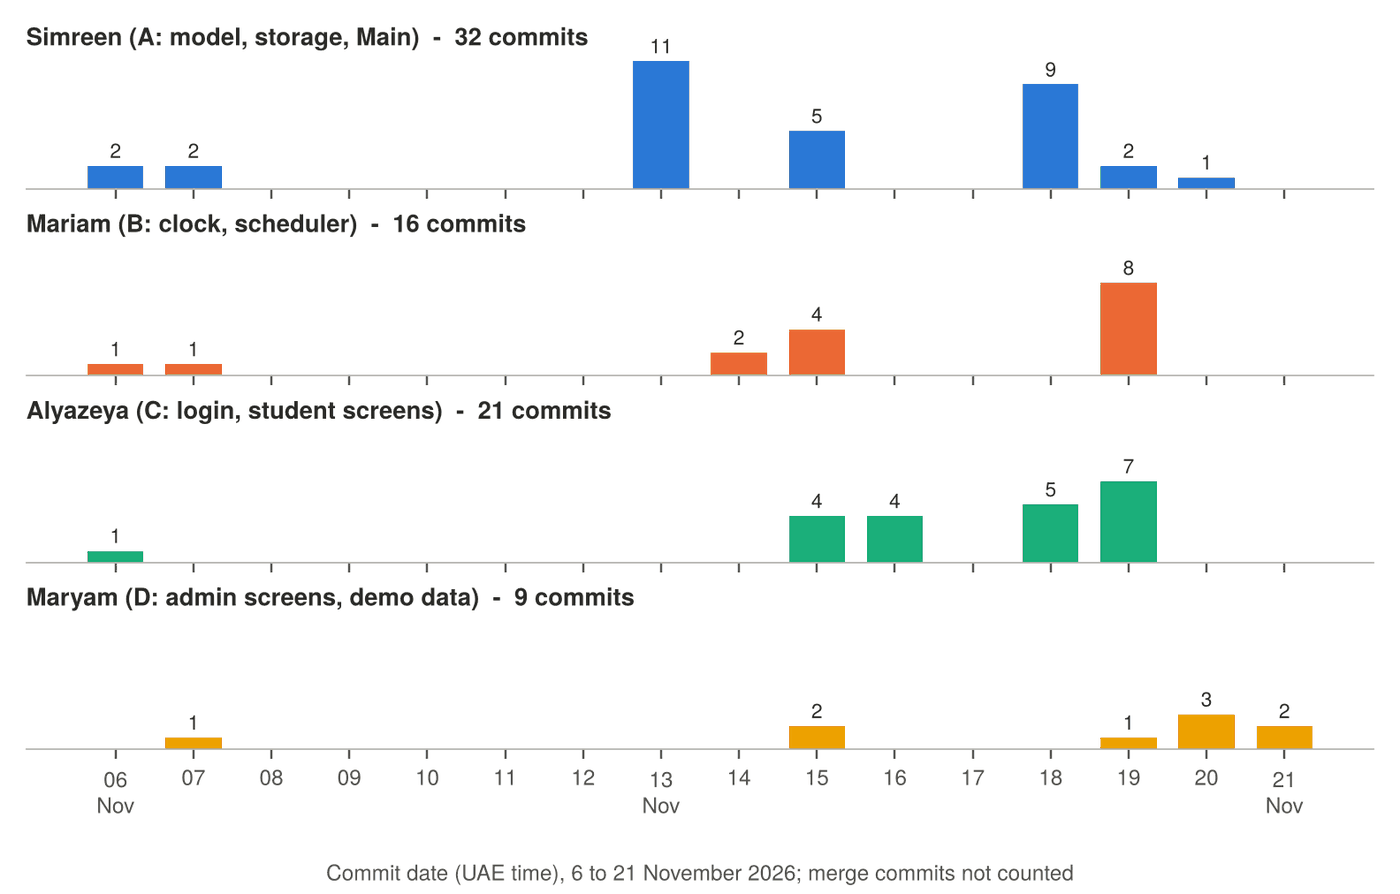
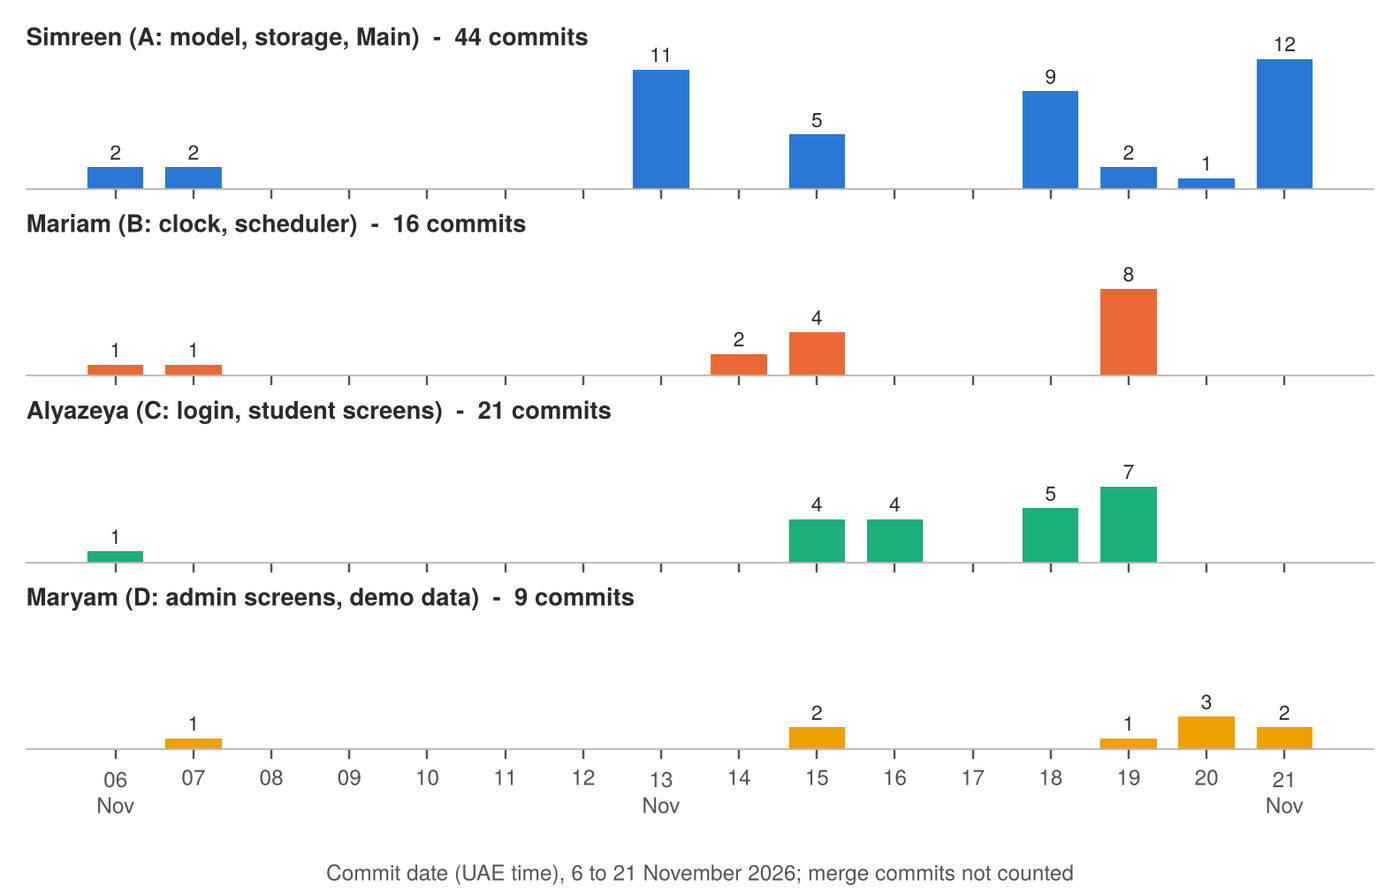
readme - how it works step by step with screenshots, class diagrams shown with what each one covers

diff --git a/README.md b/README.md
@@ -2,7 +2,7 @@
 
 COSC 230 Object-Oriented Programming lab project, Fall 2026, Khalifa University.
 
-A Java Swing desktop app that manages four shared NVIDIA H100 GPUs for students. Students register, the administrator approves them and gives them GPU minutes, and students submit jobs that are scheduled on the GPUs. The GPUs and the clock are simulated.
+A Java Swing desktop app that shares four NVIDIA H100 GPUs between students. Students ask for an account, the administrator approves them and gives them GPU minutes, and students submit jobs that run on the GPUs one after another. Nothing really runs on a GPU: the GPUs and the clock are simulated, and time only moves when the administrator presses **+1 minute**.
 
 | Member | Student ID | GitHub | Part |
 |---|---|---|---|
@@ -11,31 +11,19 @@ A Java Swing desktop app that manages four shared NVIDIA H100 GPUs for students.
 | Alyazeya Alhammadi | 100060361 | [alhammadi-007](https://github.com/alhammadi-007) | C: login, registration, student screens |
 | Maryam Alhefeiti | 100060410 | [mksalhefeiti](https://github.com/mksalhefeiti) | D: admin screens, demo data |
 
-![Administrator dashboard at 10:20 in the guide's example](docs/screenshots/admin-dashboard.png)
-
-## Contents
-
-- [The task](#the-task)
-- [What the app does](#what-the-app-does)
-- [How to run it](#how-to-run-it)
-- [Design](#design)
-- [Testing and results](#testing-and-results)
-- [Version control](#version-control)
-- [Limitations](#limitations)
-- [Repository layout](#repository-layout)
+**Contents:** [The task](#the-task) · [How it works, step by step](#how-it-works-step-by-step) · [Class diagrams](#class-diagrams) · [How to run it](#how-to-run-it) · [Testing and results](#testing-and-results) · [Version control](#version-control) · [Limitations](#limitations) · [Repository layout](#repository-layout)
 
 ## The task
 
-The project asks for a Java OOP app with a JFrame interface that:
+Build a Java OOP app with a JFrame interface where:
 
-- lets students register with university ID, name, email, phone and a password
-- lets the fixed administrator (`admin` / `gpu2026`) approve or reject them; approval gives 100 GPU minutes by default
-- lets approved students submit jobs within their allowance, choosing one of four sizes
-- runs the jobs first come, first served on four GPUs, lowest free GPU ID first
-- moves time only when the administrator presses **+1 minute**
-- shows queue positions, predicted start and finish times, waits and utilization
-- saves everything to files and restores it on restart
-- uses encapsulation, inheritance, interfaces, polymorphism and collections, and keeps the GUI separate from the logic
+- students register with their university ID, name, email, phone and a password
+- one fixed administrator (`admin` / `gpu2026`) approves or rejects them; approval gives 100 GPU minutes by default
+- approved students submit jobs within their minutes, choosing one of four sizes
+- jobs run first come, first served on four GPUs, on the lowest free GPU ID
+- time moves only with **+1 minute**, and the app shows queue positions, predicted times, waits and utilization
+- everything is saved to files and comes back after a restart
+- the code uses encapsulation, inheritance, interfaces, polymorphism and collections, and keeps the GUI separate from the logic
 
 | Size | Workload units | Duration |
 |---|---|---|
@@ -44,105 +32,81 @@ The project asks for a Java OOP app with a JFrame interface that:
 | Large | 30 | 30 min |
 | Very large | 60 | 60 min |
 
-The allowance rule is **available = allocated − used − reserved**. A job's full duration is reserved when it is accepted. When it completes, or is cancelled while running, the reservation is released and only the minutes it actually ran are charged. A job cancelled while queued costs nothing.
+## How it works, step by step
 
-## What the app does
+The screenshots follow the example in the project guide: the clock was set to 16/11/2026 10:00, five students got 100 minutes each, and ten jobs (J101 to J110) were submitted between 10:00 and 10:19. The screenshots are at 10:20.
 
-**Students**
-- request an account, then log in with their university ID
-- see allocated, used, reserved and available minutes
-- submit a job (title, application, description, size) after confirming the duration
-- see their own jobs with status, GPU, start and finish times (predicted ones marked `≈`), queue position and wait
-- search and filter their jobs, and cancel a queued or running job with a reason
+### 1. Start the app
 
-**Administrator**
-- sets the clock once with date and time spinners, then moves it with **+1 minute**
-- approves requests with an initial number of minutes, or rejects them
-- sees a dashboard: job counts, busy GPUs, utilization, each GPU's job and finish time, waiting jobs, completed jobs and every balance
-- searches students by ID, grants extra minutes with a reason, cancels any queued or running job with a reason
-- lists every job with a search box and a status filter
+`Main` loads the saved files from `data/` with `DataStore`, creates one `AppData`, `SimulationClock`, `AccountService` and `Scheduler`, and opens the login window. Every window gets these same objects, so all screens show the same data. Students sign in with their university ID; the administrator signs in as `admin`.
 
-<details>
-<summary><b>Screenshots</b> (taken on the 10:20 data from the test scenario)</summary>
+<img src="docs/screenshots/login.png" width="420" alt="Login window">
 
-| | |
+### 2. A student asks for an account
+
+The registration form has only the five fields from the task. `AccountService.register()` checks them (nothing empty, a valid email and phone, the ID not already used) and saves an `AccessRequest` with status *Pending*. Until it is approved, signing in shows "Your registration request is still pending approval."
+
+<img src="docs/screenshots/register-validation.png" width="420" alt="Registration with an invalid email">
+
+### 3. The administrator sets the clock (first time only)
+
+On the first admin login there is no saved clock, so the clock setup opens with a date picker and a time picker. After that the clock only moves with **+1 minute** and never follows the computer's clock. Until it is set, jobs can't be submitted and +1 minute is disabled.
+
+<img src="docs/screenshots/clock-setup.png" width="700" alt="Clock setup dialog">
+
+### 4. The administrator approves the request
+
+The Requests tab lists the requests. **Approve** creates a `Student` with a `TimeAllowance` of 100 minutes (the administrator can change the number first). **Reject** only changes the status. A request can't be processed twice.
+
+<img src="docs/screenshots/admin-requests.png" alt="Requests tab">
+
+### 5. The student signs in and sees their minutes
+
+Every student has a `TimeAllowance` with three numbers. **available = allocated − used − reserved**. *Reserved* is time held for jobs that are queued or running; *used* is time that jobs actually ran. Here Sara has 100 allocated, 15 used, 20 reserved, so 65 available.
+
+<img src="docs/screenshots/student-home.png" width="420" alt="Student home window">
+
+### 6. The student submits a job
+
+The student types a title, application and description and picks a size. The duration comes from the size, and the student confirms it. `Scheduler.submit()` first reserves the minutes; if the job needs more than the available time it is refused and nothing is saved (an exact match is accepted).
+
+| Confirming a Large job | Not enough time: 60 asked, 55 available |
 |---|---|
-| ![Login](docs/screenshots/login.png) | ![Registration with a bad email](docs/screenshots/register-validation.png) |
-| Login | Registration with an invalid email |
-| ![Student home](docs/screenshots/student-home.png) | ![Submitting a job](docs/screenshots/submit-confirm.png) |
-| Student home: 100 / 15 / 20 / 65 | Confirming a Large job |
-| ![Allowance limit](docs/screenshots/allowance-limit.png) | ![Broken data file](docs/screenshots/file-error.png) |
-| 60 minutes asked, 55 available: refused | Broken `jobs.csv`: file and line named |
+| ![Submit confirmation](docs/screenshots/submit-confirm.png) | ![Job refused](docs/screenshots/allowance-limit.png) |
+
+### 7. The scheduler puts the job on a GPU or in the queue
+
+If a GPU is free the job starts at once on the lowest-numbered free GPU. If all four are busy it waits in one first-come, first-served queue. For waiting jobs the scheduler predicts when they start: it copies each GPU's "free at" time and hands out the queued jobs in order to the earliest copy (a tie goes to the lower GPU). Only the copies change, never the real GPUs. My Jobs shows each job's status and GPU; predicted times are marked `≈`.
 
 ![My Jobs](docs/screenshots/my-jobs.png)
-*Sara's jobs at 10:20: J109 is second in the queue and waits 10 minutes.*
+*Sara's jobs at 10:20: J109 is second in the queue and should start at 10:30, a 10-minute wait.*
 
-![Clock setup](docs/screenshots/clock-setup.png)
-*First admin login on empty data: the clock must be set first.*
+### 8. The administrator presses +1 minute
 
-![Requests](docs/screenshots/admin-requests.png)
-![Students](docs/screenshots/admin-students.png)
-![Granting time](docs/screenshots/grant-time.png)
-![All jobs](docs/screenshots/admin-all-jobs.png)
+`Scheduler.advanceMinute()` moves the clock one minute, completes every job that has run its full duration, settles it (the reservation is released and the minutes it ran are charged), frees its GPU and starts the next waiting jobs. Then the data is saved. The dashboard shows the job counts, each GPU, the waiting and completed jobs, every student's minutes and the utilization: minutes run by all jobs ÷ (4 × minutes since the clock was set), N/A at time zero.
 
-</details>
+![Administrator dashboard](docs/screenshots/admin-dashboard.png)
+*At 10:20 all four GPUs are busy, J108 and J109 wait 10 minutes each and utilization is 96.3%, the same as the guide.*
 
-## How to run it
+### 9. Cancelling a job
 
-You need Java 17 or newer. There are no external libraries.
+A student can cancel their own queued or running job; the administrator can cancel any. Both must give a reason, and the job keeps who cancelled it, when and why. A queued job costs nothing; a running job is charged only the minutes it ran and its GPU goes to the next job. On the Students tab the administrator finds a student by ID and sees their minutes and all their jobs.
 
-**Open the project**
-- Eclipse: File → Import → General → Existing Projects into Workspace → choose this folder.
-- VS Code: install the Extension Pack for Java, then File → Open Folder.
+![Students tab](docs/screenshots/admin-students.png)
 
-**Run**
+### 10. Granting extra time
 
-| File | What it does |
-|---|---|
-| `src/ui/Main.java` | Starts the app with the data in `data/`. On the first run log in as `admin` / `gpu2026` and set the clock. |
-| `src/ui/DemoMain.java` | Starts the app with the demo data in `demo-data/`. |
-| `src/ui/DemoDataGenerator.java` | Rebuilds `demo-data/`. Close the app first, it overwrites the demo files. |
-| `test/tests/ModelStorageTest.java` | Tests the model classes and storage (29 checks). |
-| `test/tests/ScenarioTest.java` | Replays the guide's 10:20 example and tests the rules (45 checks). |
+From the Students tab the administrator can give a student more minutes. A reason is required, and the grant is saved as a `TimeGrant` (student, minutes, reason, who, when). The All Jobs tab lists every job with a search box and a status filter.
 
-**Demo logins** (in `DemoMain`): `admin` / `gpu2026`, or students `100011` to `100015` with password `Demo12345`. The demo has 5 approved students, 2 pending and 1 rejected request, and 20 jobs: 6 completed, 6 cancelled, 4 running and 4 queued.
+<img src="docs/screenshots/grant-time.png" width="520" alt="Grant extra time dialog">
 
-To start again from nothing, close the app and delete the `data/` folder.
+![All Jobs tab](docs/screenshots/admin-all-jobs.png)
 
-## Design
+### 11. Closing and opening again
 
-The code is split into four packages. Only `ui` uses Swing.
+When the app closes, `DataStore` writes `students.csv`, `requests.csv`, `jobs.csv`, `grants.csv` and `clock.csv`, one object per line. On the next start everything comes back: the clock continues from the same minute, running jobs go back on their GPUs with the time they had left, and the queue and balances are the same. A missing file just means nothing was saved yet. A broken file shows which file and line is wrong and is not overwritten.
 
-| Package | Classes | Job |
-|---|---|---|
-| `model` | `User`, `Student`, `Administrator`, `AccessRequest`, `Job`, `GPU`, `TimeAllowance`, `TimeGrant`, `AppData`, `Storable`, `TimeFormat`, `TaskSize`, `JobStatus`, `RequestStatus` | The data and the rules that protect it |
-| `logic` | `AccountService`, `Scheduler`, `SimulationClock`, `ValidationException` | Accounts, scheduling, the clock |
-| `storage` | `DataStore` | Saves and loads the CSV files |
-| `ui` | `Main`, `DemoMain`, `DemoDataGenerator`, `LoginFrame`, `StudentRegistrationFrame`, `StudentFrame`, `SubmitJobFrame`, `MyJobsFrame`, `MyJobsPanel`, `AdminFrame`, `DashboardPanel`, `RequestsPanel`, `StudentsPanel`, `AllJobsPanel`, `ClockSetupPanel` | The windows |
-
-![How the packages connect](docs/uml/overview.png)
-
-`Main` creates one `AppData`, `SimulationClock`, `AccountService` and `Scheduler` and passes them to every window, so all screens work on the same data.
-
-**How the classes connect**
-- **Submit a job:** `SubmitJobFrame` → `Scheduler.submit()` reserves the minutes on the student's `TimeAllowance` (throws if there isn't enough), creates the `Job`, adds it to `AppData` and dispatches queued jobs onto free GPUs.
-- **+1 minute:** `AdminFrame` → `Scheduler.advanceMinute()` moves the `SimulationClock`, completes finished jobs, settles them (release + charge), frees their GPUs and starts waiting jobs. Then `Main.save()` writes the files.
-- **Cancel:** `MyJobsPanel` (owner) or `StudentsPanel` (admin) → `Scheduler.cancel()`. A running job is charged the minutes it ran and frees its GPU; a queued job is released for free.
-- **Start and exit:** `Main` → `DataStore.load()` restores everything and puts running jobs back on their GPUs; a shutdown hook calls `DataStore.save()`.
-
-**Predictions** copy each GPU's free-at time and give the queued jobs, in FCFS order, to the earliest copy (ties go to the lower GPU ID). The real GPUs are never changed. **Utilization** is the minutes run by all jobs ÷ (4 × minutes since the clock was set), shown as N/A at time zero.
-
-**The five OOP mechanisms**
-
-| Mechanism | Where |
-|---|---|
-| Encapsulation | `TimeAllowance` keeps allocated, used and reserved private; only `reserve()`, `release()`, `charge()` and `grant()` change them and none can go negative. `User` hides the password behind `checkPassword()`. |
-| Inheritance | `Student` and `Administrator` extend the abstract `User`. The windows extend `JFrame` / `JPanel`. |
-| Interfaces | `Student`, `AccessRequest`, `Job` and `TimeGrant` implement `Storable` (`toLine()`). |
-| Polymorphism | `AccountService.login()` loops over a list of `User` and calls `checkPassword()`; `DataStore` calls `toLine()` on any `Storable`. |
-| Collections | `HashMap` of students, `ArrayList`s of requests, jobs and grants, `GPU[4]`, `List<Job>` queue, `Map<Job, LocalDateTime>` predictions. |
-
-**Storage.** `DataStore` writes `students.csv`, `requests.csv`, `jobs.csv`, `grants.csv` and `clock.csv`, one object per line. A missing file means nothing was saved yet. A broken line stops loading with a message naming the file and line, and the file is not overwritten.
+<img src="docs/screenshots/file-error.png" width="520" alt="File error message">
 
 ```
 students.csv  100052210,gpu12345,Sara Ahmed,sara.ahmed@ku.ac.ae,0501234502,100,15,20
@@ -150,25 +114,80 @@ jobs.csv      J106,100052210,CNN training,PyTorch,Train the image classifier,MED
 clock.csv     2026,11,16,10,20,20
 ```
 
-<details>
-<summary><b>Class diagrams</b> (every attribute and method)</summary>
+## Class diagrams
 
-**Model: users, requests, allowances, grants**
-![Model 1](docs/uml/model-users.png)
+The code is in four packages. Only `ui` uses Swing; `logic` and `model` never import it. The windows read their fields and call methods in `logic`, which apply the rules.
 
-**Model: jobs, GPUs, AppData**
-![Model 2](docs/uml/model-jobs.png)
+| Package | Classes |
+|---|---|
+| `model` | `User`, `Student`, `Administrator`, `AccessRequest`, `Job`, `GPU`, `TimeAllowance`, `TimeGrant`, `AppData`, `Storable`, `TimeFormat`, `TaskSize`, `JobStatus`, `RequestStatus` |
+| `logic` | `AccountService`, `Scheduler`, `SimulationClock`, `ValidationException` |
+| `storage` | `DataStore` |
+| `ui` | `Main`, `LoginFrame`, `StudentRegistrationFrame`, `StudentFrame`, `SubmitJobFrame`, `MyJobsFrame`, `MyJobsPanel`, `AdminFrame`, `DashboardPanel`, `RequestsPanel`, `StudentsPanel`, `AllJobsPanel`, `ClockSetupPanel` |
 
-**Logic and storage**
-![Logic and storage](docs/uml/logic-storage.png)
+### How the packages connect
 
-**UI: Main, login, registration, student windows**
-![UI 1](docs/uml/ui-student.png)
+The windows call `AccountService` (register, login, approve, reject, grant) and `Scheduler` (submit, cancel, +1 minute, predictions). Both work on the one `AppData`. `DataStore` saves and loads `AppData` and the clock.
 
-**UI: administrator window and tabs**
-![UI 2](docs/uml/ui-admin.png)
+<img src="docs/uml/overview.png" width="640" alt="Package overview">
 
-</details>
+### Model: users, requests, allowances and grants
+
+`Student` and `Administrator` extend the abstract `User`. A `Student` has one `TimeAllowance`, whose numbers can only change through `reserve()`, `release()`, `charge()` and `grant()`, so they never go negative. `Student`, `AccessRequest` and `TimeGrant` implement `Storable`, so each can write itself as one line of a file.
+
+![Model classes 1](docs/uml/model-users.png)
+
+### Model: jobs, GPUs and AppData
+
+A `Job` checks its own moves: only Queued → Running or Cancelled, and Running → Completed or Cancelled. Anything else throws, so a job can't restart or be charged twice. `AppData` holds the students (a `HashMap` by ID), the requests, jobs and grants (`ArrayList`s) and the four `GPU`s.
+
+![Model classes 2](docs/uml/model-jobs.png)
+
+### Logic and storage
+
+`Scheduler` does submit, dispatch, +1 minute, cancel, predictions and utilization using the `SimulationClock`. `AccountService` handles accounts. `DataStore` writes and reads the CSV files and turns any broken line into a `ValidationException` with the file and line.
+
+![Logic and storage classes](docs/uml/logic-storage.png)
+
+### UI: start, login and student windows
+
+`Main` opens `LoginFrame`, which opens the registration form, the student window or the admin window. The student window opens the job form and My Jobs.
+
+<img src="docs/uml/ui-student.png" width="720" alt="Student UI classes">
+
+### UI: administrator window
+
+`AdminFrame` has the clock, **+1 minute** and four tabs: Dashboard, Requests, Students and All Jobs. `ClockSetupPanel` opens on the first login.
+
+![Admin UI classes](docs/uml/ui-admin.png)
+
+### The five OOP mechanisms
+
+| Mechanism | Where |
+|---|---|
+| Encapsulation | `TimeAllowance` keeps allocated, used and reserved private; only its methods change them. `User` keeps the password private and only offers `checkPassword()`. |
+| Inheritance | `Student` and `Administrator` extend the abstract `User`. The windows extend `JFrame` or `JPanel`; `ValidationException` extends `Exception`. |
+| Interfaces | `Student`, `AccessRequest`, `Job` and `TimeGrant` implement `Storable` (`toLine()`). |
+| Polymorphism | `login()` returns a `User`, and `LoginFrame` calls `user.isAdmin()`, which runs the `Student` or `Administrator` version. `DataStore` calls `toLine()` on a list of `Storable`, whatever class each item is. |
+| Collections | `HashMap` of students, `ArrayList`s of requests, jobs and grants, `GPU[4]`, the queue as a `List<Job>`, predictions in a `Map<Job, LocalDateTime>`. |
+
+## How to run it
+
+You need Java 17 or newer. There are no external libraries.
+
+- **Eclipse:** File → Import → General → Existing Projects into Workspace → choose this folder.
+- **VS Code:** install the Extension Pack for Java, then File → Open Folder.
+
+| File | What it does |
+|---|---|
+| `src/ui/Main.java` | Starts the app with the data in `data/`. |
+| `test/tests/ModelStorageTest.java` | Tests the model classes and storage (29 checks). |
+| `test/tests/ScenarioTest.java` | Replays the guide's 10:20 example and tests the rules (45 checks). |
+| `test/tests/DemoDataGenerator.java` | Rebuilds the demo data in `data/`. Close the app first, it overwrites the files. |
+
+`data/` already has the demo data: 5 approved students (`100011` to `100015`, password `Demo12345`), 2 pending and 1 rejected request, and 20 jobs (6 completed, 6 cancelled, 4 running, 4 queued). The administrator is `admin` / `gpu2026`.
+
+To start from nothing (for example to see the clock setup), close the app and delete the `data/` folder. `git checkout -- data` brings the demo data back.
 
 ## Testing and results
 
@@ -177,9 +196,9 @@ Both tests are plain `main` methods that print `PASS` or `FAIL` for each check a
 | Test | Checks | Result |
 |---|---|---|
 | `ModelStorageTest`: allowance rules, illegal job moves, accounts, save and reload, missing and broken files | 29 | all pass |
-| `ScenarioTest`: the guide's 10:20 example through the real `Scheduler` and `AccountService`, then predictions, cancellations, limits and every login and registration message | 45 | all pass |
+| `ScenarioTest`: the guide's example through the real `Scheduler` and `AccountService`, then predictions, cancellations, limits and every login and registration message | 45 | all pass |
 
-The scenario sets the clock to 16/11/2026 10:00, approves five students with 100 minutes each, and submits J101 to J110 at the times in the guide while pressing +1 minute (J110 is cancelled by its owner while queued). At 10:20:
+What the scenario test checks at 10:20, against the values in the guide:
 
 | Check | Guide | Our app |
 |---|---|---|
@@ -188,7 +207,7 @@ The scenario sets the clock to 16/11/2026 10:00, approves five students with 100
 | J108, J109 waits | 10, 10 min | 10, 10 min |
 | Utilization | 96.3% | 96.3% |
 | Ali / Sara / Hamad (alloc/used/res/avail) | 100/5/30/65, 100/15/20/65, 100/15/30/55 | same |
-| J110 charge | 0 | 0 |
+| J110 (cancelled while queued) charge | 0 | 0 |
 | Waits after J111 (Large) is submitted | 10 / 10 / 15 | 10 / 10 / 15 |
 | Waits after +1 minute | 9 / 9 / 14 | 9 / 9 / 14 |
 
@@ -196,26 +215,26 @@ After saving and reloading, the clock, running jobs, remaining times, waits and 
 
 ## Version control
 
-Everything is in one repository on the `main` branch. Each member committed from their own account as their part was built. The model went in first (13–15 Nov) so the scheduler and screens could build on it; the scheduler and the screens were connected on 19 Nov; the admin tabs, demo data and documentation followed on 20–21 Nov.
+Everything is in one repository on the `main` branch, and each member committed from their own account. The model went in first (13 to 15 Nov) so the scheduler and screens could build on it. The scheduler and the screens were connected on 19 Nov, and the admin tabs, demo data, tests and documentation followed on 20 and 21 Nov.
 
 ![Commits per day](docs/commits-per-day.png)
 
 | Member | Commits | Main work |
 |---|---|---|
-| Simreen | 32 | project setup, every model class one commit at a time, `AccountService`, `DataStore`, tests, `Main`, diagrams |
+| Simreen | 44 | project setup, every model class one commit at a time, `AccountService`, `DataStore`, `Main`, tests, diagrams, clean-up |
 | Mariam | 16 | `SimulationClock`, `Scheduler` step by step, moving it onto the shared `AppData` |
 | Alyazeya | 21 | login, registration, student home, job form, My Jobs, connecting them to the services |
-| Maryam | 9 | admin window and all tabs, clock setup, demo data and demo mode |
+| Maryam | 9 | admin window and all tabs, clock setup, demo data |
 
 *Counts are up to 21 Nov 2026 and leave out merge commits. Some members committed whole screens at once, so the counts don't show how big each commit was.*
 
 ## Limitations
 
-- Admin actions save straight away. Registrations, approvals, rejections and student submissions and cancellations are saved when the app closes, so a force-quit loses them.
+- Setting the clock, +1 minute, grants and admin cancellations save straight away. Registrations, approvals, rejections and student submissions and cancellations are saved when the app closes, so a force-quit loses them.
 - Passwords are stored as plain text in the CSV files.
 - One fixed admin account and one user at a time on one computer, as the task describes.
 - Student windows refresh when they come to the front or when *Refresh* is pressed, not on a timer.
-- The clock's year spinner shows `2,026`, and some table columns cut off long values unless the window is widened.
+- Some table columns cut off long values unless the window is made wider.
 - Time moves in whole minutes and only the four task sizes exist. No real GPU work happens.
 
 ## Repository layout
@@ -226,9 +245,9 @@ src/
               TimeGrant, AppData, Storable, TimeFormat, TaskSize, JobStatus, RequestStatus
   logic/      AccountService, Scheduler, SimulationClock, ValidationException
   storage/    DataStore
-  ui/         Main, DemoMain, DemoDataGenerator and the Swing windows
-test/tests/   ModelStorageTest, ScenarioTest
-demo-data/    demo students, requests, jobs and clock
+  ui/         Main and the Swing windows
+test/tests/   ModelStorageTest, ScenarioTest, DemoDataGenerator
+data/         demo data the app starts from (students, requests, jobs, grants, clock)
 docs/         class diagrams, screenshots, commit chart
 .project, .classpath, .settings/   Eclipse project files
 LICENSE
